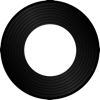
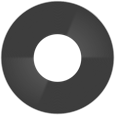
Updated record

diff --git a/app/styles/main.scss b/app/styles/main.scss
@@ -260,7 +260,7 @@ a {
     color: $gray-lighter;
   }
   
-  $record-width: 100px;
+  $record-width: 115px;
   .record{
     background-image: url(../images/record.png);
     width: $record-width;
@@ -268,14 +268,15 @@ a {
     display:inline-block;
     position:relative;
     img{
-      width: $record-width/2+2;
-      height: $record-width/2+2;
+      width: $record-width/2;
+      height: $record-width/2;
       border-radius: 50%;
       position: absolute;
       top:50%;
       left:50%;
-      margin-top: -($record-width/2+2)/2;
-      margin-left: -($record-width/2+2)/2;
+      margin-top: -($record-width/2)/2;
+      margin-left: -($record-width/2)/2;
+      border: 6px solid darken($gray-dark, 5%);
     }
   }
  
